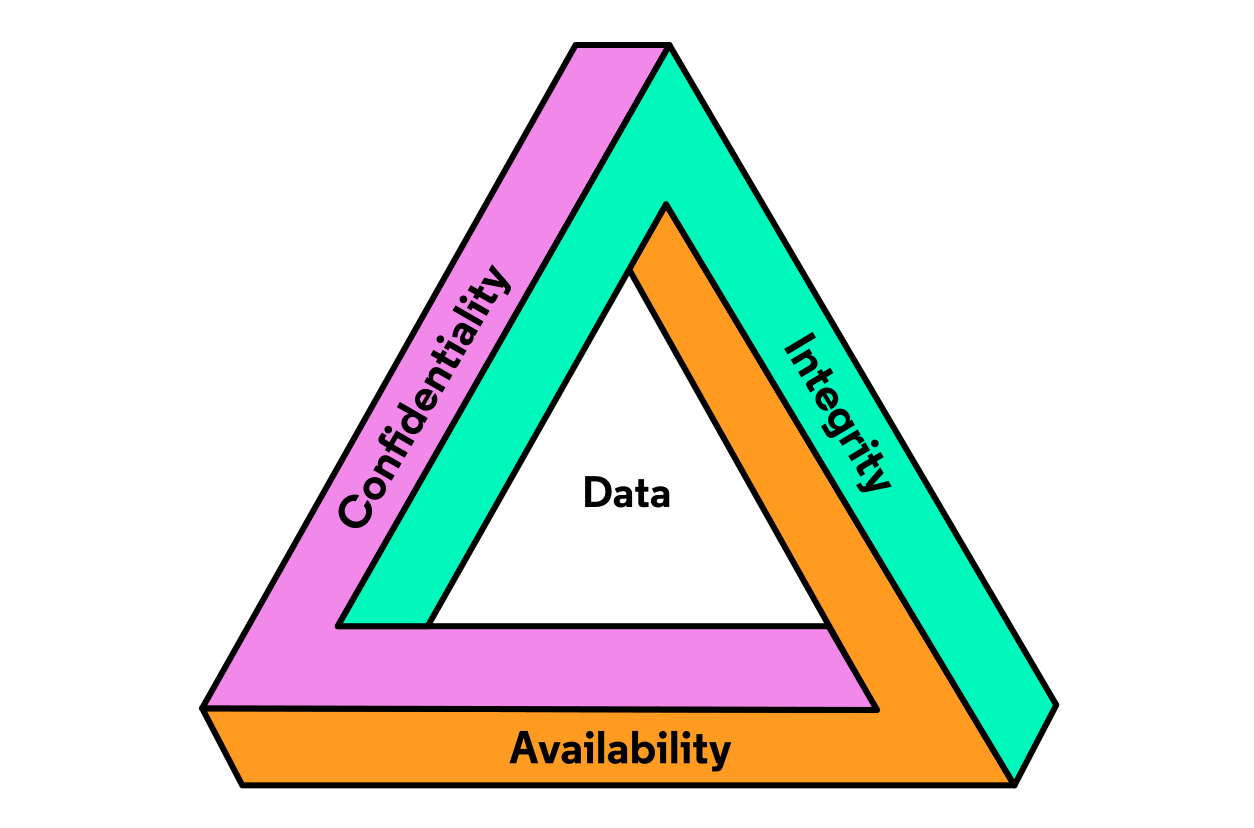
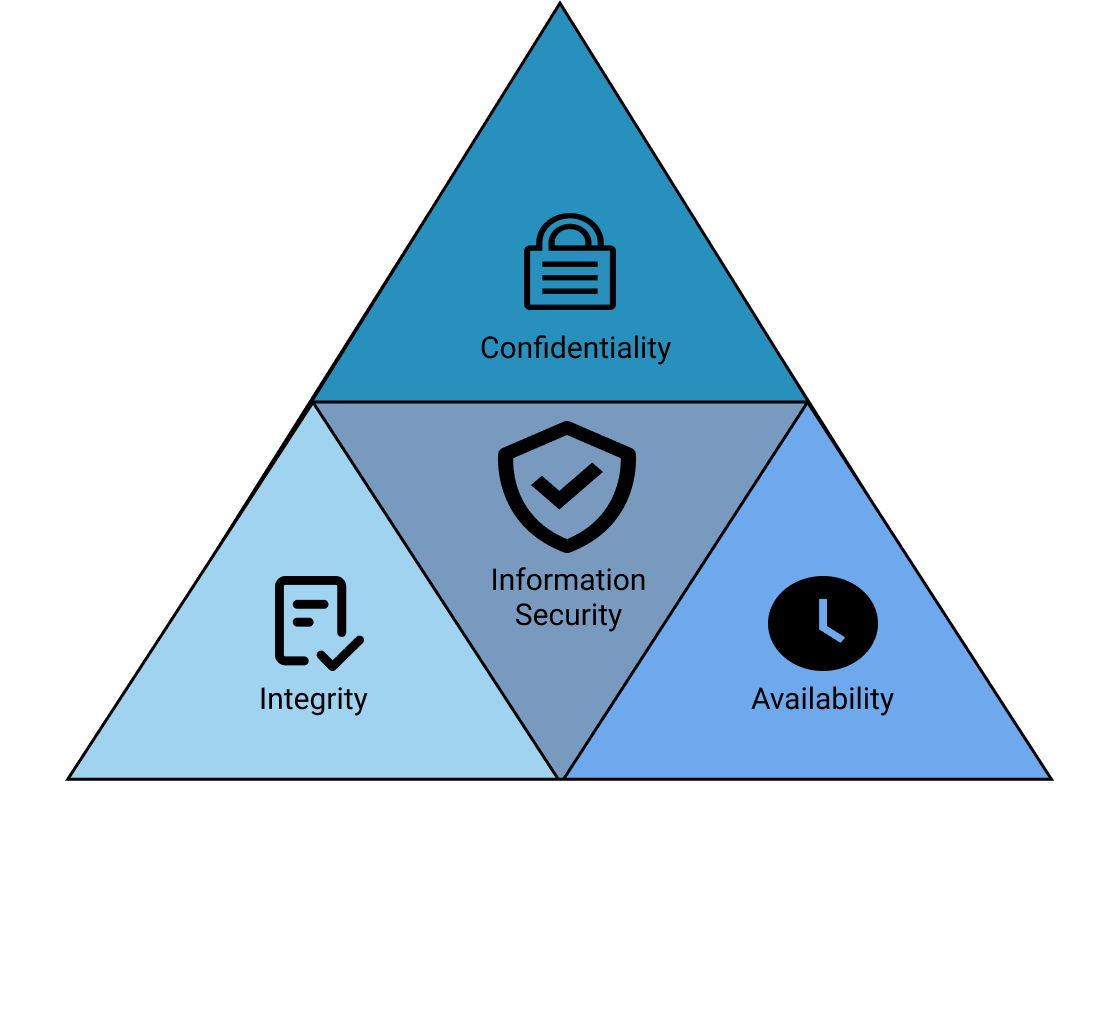
feat: what is the internet + ddos

diff --git a/docs/.vitepress/config.js b/docs/.vitepress/config.js
@@ -31,6 +31,12 @@ export default {
         ],
       },
       {
+        text: 'Exploits',
+        items: [
+          { text: 'DDoS', link: '/exploits/ddos/' },
+        ],
+      },
+      {
         text: 'Knowledge Base',
         items: [
           { text: 'ISTQB', link: '/knowledge-base/istqb/' },
@@ -63,6 +69,14 @@ export default {
           items: [
             { text: 'CIA triad', link: '/the-lab/security/cia-triad' },
             { text: 'Hacking modus operandi', link: '/the-lab/security/hacking-modus-operandi' },
+          ],
+        },
+        {
+          text: 'Exploits',
+          collapsible: true,
+          items: [
+            { text: 'DDoS', link: '/the-lab/exploits/DDoS' },
+
           ],
         },
       ],
@@ -145,7 +159,7 @@ export default {
         },
       ],
 
-      // Vulnerabilities
+      // vulnerabilities
       '/vulnerabilities/xss/': [
         {
           text: 'XSS Intro',
@@ -172,6 +186,16 @@ export default {
           text: 'CSRF',
           items: [
             { text: 'CSRF', link: '/vulnerabilities/csrf/intro/csrf' },
+          ],
+        },
+      ],
+
+      // exploits
+      '/exploits/': [
+        {
+          text: 'Distributed Denial of Service',
+          items: [
+            { text: 'DDoS', link: '/exploits/ddos/DDoS' },
           ],
         },
       ],
@@ -205,6 +229,12 @@ export default {
         },
       ],
       '/knowledge-base/networking/': [
+        {
+          text: 'The Internet',
+          items: [
+            { text: 'What Is The Internet?', link: '/knowledge-base/networking/0-the-internet/the-internet.md' },
+          ],
+        },
         {
           text: 'Introduction',
           items: [

diff --git a/docs/knowledge-base/networking/0-the-internet/the-internet.md b/docs/knowledge-base/networking/0-the-internet/the-internet.md
@@ -1,0 +1,111 @@
+# What is the Internet?
+
+What is the internet?
+
+The internet is like a popular thing.
+
+"Some satellites up there."
+
+"I picture it in my head with like waves of internet going to the phone."
+
+"Somebody told me a cloud once."
+
+"The internet is a lot like plumbing."
+
+"It’s always moving."
+
+**Most people don’t have any idea where the internet came from, and it doesn’t matter, they don’t need to.**
+
+It’s sort of like asking who invented the ballpoint pen.
+
+<img src="./assets/1-the-ballpoint-pen.png">
+
+Or the flush toilet.
+
+<img src="./assets/2-the-flush-toilet.png">
+
+Or, you know, the zipper.
+
+<img src="./assets/3-the-zipper.png">
+
+These are all things we just use every day.
+
+We don’t even think about the fact that one day, somebody invented them.
+
+So, the internet is just like that.
+
+## Origins of the Internet
+
+Many, many years ago, in the early 1970s, my partner `Bob Kahn` and I began working on the design of what we now call the internet.
+
+<img src="./assets/4-creators-of-the-internet.png">
+
+It was a result of another experiment called `the ARPANET`, which stood for [Advanced Research Projects Agency Network](https://nl.wikipedia.org/wiki/ARPANET).
+
+It was a Defense Department research project.
+
+<img src="./assets/5-the-arpanet.png">
+
+`Paul Baran` was trying to figure out how to build a communication system that might actually survive a nuclear attack.
+
+<img src="./assets/6-types-of-networks.png">
+
+So he had this idea of breaking messages up into blocks and sending them as fast as possible in every possible direction through the mesh network.
+
+<img src="./assets/7-a-distributed-packet-switch-network.png">
+
+So we built what eventually became a nationwide experimental packet network, and it worked! [Loud, electronic music]
+
+<img src="./assets/8-websites.png">
+
+## Governance of the Internet
+
+Is anybody in charge of the internet?
+
+`The government controls it.`
+
+`Elves.`
+
+`Obviously elves!`
+
+`The people who control the Wi-Fi because then no Wi-Fi, no internet.`
+
+`T-Mobile, um, Xfinity.`
+
+`Bill Gates.`
+
+.. Right?
+
+`The honest answer is well nobody`, and maybe another answer is everybody.
+
+The real answer is that the internet is made up of an `incredibly large number of independently operated networks`.
+
+<img src="./assets/9-independently-operated-networks.png">
+
+## Decentralized Structure
+
+What’s interesting about the system is that it’s fully distributed.
+
+There’s no central control that’s deciding how packets are routed or where pieces of network are built, or even who interconnects with whom.
+
+These are all business decisions that are made independently by the operators.
+
+They are all motivated to assure that there is end-to-end connectivity of every part of the network because the utility of the net is that any device can communicate with any other device, just like you want to be able to make phone calls to any other telephone in the world.
+
+There’s nothing like this that has ever been built before.
+
+## Collaboration and Innovation
+
+The idea that what you know might be useful to somebody else or vice versa is a very powerful motivator for sharing information.
+
+<img src="./assets/10-oceanic-pipe-lines.png">
+
+By the way, that's how science gets done, people share information.
+
+So, this is an opportunity for people to think up new applications, maybe program them as apps on a mobile phone, maybe become part of the continued growth of the infrastructure of the network to bring it to people who don’t have access to it yet, or just make use of it on a day-to-day basis.
+
+<img src="./assets/11-antennas.png">
+
+## Embracing the Internet
+
+You can’t escape from contact with the internet, so why not get to know it and use it?

diff --git a/docs/exploits/ddos/DDoS.md b/docs/exploits/ddos/DDoS.md
@@ -1,0 +1,69 @@
+# Distributed Denial of Service Attack
+
+## Recruiting an Army of Bots
+
+"The first step in launching a distributed denial of service attack, better known as a DDoS attack, is to recruit an army of bots.
+
+<img src="./assets/ddos/1-recruit-an-army-of-bots.png" />
+
+In order to turn a computer into a bot, attackers develop specialized malware, which they spread to as many vulnerable computers as possible.
+
+<img src="./assets/ddos/2-infect-website.png" />
+
+Malware can spread via compromised websites, email attachments, or through an organization's network.
+
+<img src="./assets/ddos/3-install-malware-on-compromised-website.png" />
+
+Many users, tricked into running such malware, will unintentionally turn their computer into a bot and provide an access point for attackers to their computer."
+
+<img src="./assets/ddos/4-users-are-tricked-intro-running-malware.png" />
+
+## Botnet Formation and Commands
+
+"Once a computer turns into a bot, it connects to the attacker's command and control servers, and it begins to accept orders from the centralized machines.
+
+The orders from the command and control servers include directions for launching an attack from the bot's malware to a particular target using selected attack methods.
+
+<img src="./assets/ddos/5-command-center-and-control.png" />
+
+An army of bots is named a botnet and usually consists of thousands of bots."
+
+<img src="./assets/ddos/6-botnet.png" />
+
+## Coordination and Execution of Attacks
+
+"Anytime the botnet owners want to launch an attack, they send messages to their botnet's command and control servers with instructions to perform an attack on a particular target.
+
+Any infected machines in the botnet will comply by launching a coordinated, well-timed distributed attack known as a DDoS attack.
+
+Launching a large-scale DDoS attack is not a difficult task to carry out."
+
+<img src="./assets/ddos/7-launching-a-coordinated-attack.png" />
+
+## Accessibility of DDoS Services
+
+**What does it need to create its own Botnet?**
+
+Various pay-for-hire DDoS services are available.
+
+Anyone using such a service can launch a powerful DDoS attack on a target of their choice for anywhere from $5 to $200 per hour, depending on the attack size and duration.
+
+An average duration of a DDoS attack is about twenty-four hours."
+
+<img src="./assets/ddos/8-ddos-for-hire.png" />
+
+## Motivations and Consequences
+
+"The motivations behind DDoS attacks can be financially driven (pursuit of crippling a business competitor), hacktivism (political), or even just for fun.
+
+<img src="./assets/ddos/9-motivations.png" />
+
+No one, however, should doubt the potential cost of a successful attack.
+
+The business impact of a DDoS attack is substantial and can involve financial losses, reputational damage, customer agitation, and legal repercussions."
+
+<img src="./assets/ddos/10-consequences.png" />
+
+## Protection Against DDoS Attacks
+
+Most used DDoS protection software is Cloudfare.

diff --git a/docs/index.md b/docs/index.md
@@ -2,6 +2,14 @@
 
 Welcome to the LAB.  🧪
 
+## Difference Exploits vs. Vulnerability
+
+Vulnerabilities: These are weaknesses or flaws in software, hardware, or systems that can be exploited by attackers to compromise their security. Examples include SQL injection vulnerabilities, XSS vulnerabilities, and buffer overflow vulnerabilities.
+
+Exploits: Exploits are techniques or tools used by attackers to take advantage of vulnerabilities and gain unauthorized access, perform malicious actions, or compromise systems. Exploits are essentially the means by which vulnerabilities are leveraged for nefarious purposes. Examples include DDoS attacks, SQL injection attacks, and phishing campaigns.
+
+In summary, vulnerabilities represent weaknesses in security defenses, while exploits are the methods or actions taken to exploit those weaknesses.
+
 TO ADD Security
 
 Certainly! Here are some additional security subjects:

diff --git a/docs/instruments/git/git-and-github/3-collaboration.md b/docs/instruments/git/git-and-github/3-collaboration.md
@@ -50,9 +50,9 @@ Create a new branch and move into it:
 
 Merge conflicts happen when two commits affect the same line of code at the same time.
 
-1 Feature branch modifies line 5 and commits.  
-2 Master branch modifies line 5 and commits.  
-3 Master branch tries to merge feature branch.  
+1 Feature branch modifies line 5 and commits.
+2 Master branch modifies line 5 and commits.
+3 Master branch tries to merge feature branch.
 
 Here’s how a merge conflict looks from the command line:
 

diff --git a/docs/instruments/git/git-and-github/4-advanced.md b/docs/instruments/git/git-and-github/4-advanced.md
@@ -153,7 +153,6 @@ on:
   pull_request:
     branches: [ master ]
 
-
 jobs:
   test_pull_request:
     runs-on: ubuntu-latest
@@ -210,7 +209,6 @@ jobs:
         env:
           NODE_AUTH_TOKEN: ${{secrets.npm_token}}
 
-
     publish-gpr:
         needs: build
         runs-on: ubuntu-latest
@@ -240,7 +238,6 @@ on:
   issues:
     types: [opened]
 
-
 jobs:
   post_slack_message:
     runs-on: ubuntu-latest
@@ -249,7 +246,7 @@ jobs:
     - uses: rtCamp/action-slack-notify@v2.0.0
     env:
         SLACK_WEBHOOK: ${{ secrets.SLACK_WEBHOOK }}
-        SLACK_USERNAME: CyberJeff 
+        SLACK_USERNAME: CyberJeff
         SLACK_CHANNEL: gh-issues
 ```
 

diff --git a/docs/exploits/ddos/index.md b/docs/exploits/ddos/index.md
@@ -1,0 +1,1 @@
+# DDoS

diff --git a/docs/knowledge-base/cyber-crusades/web-1/1-what-is-web.md b/docs/knowledge-base/cyber-crusades/web-1/1-what-is-web.md
@@ -1,4 +1,3 @@
-
 # What Is Web
 
 ## Introduction to Web Components